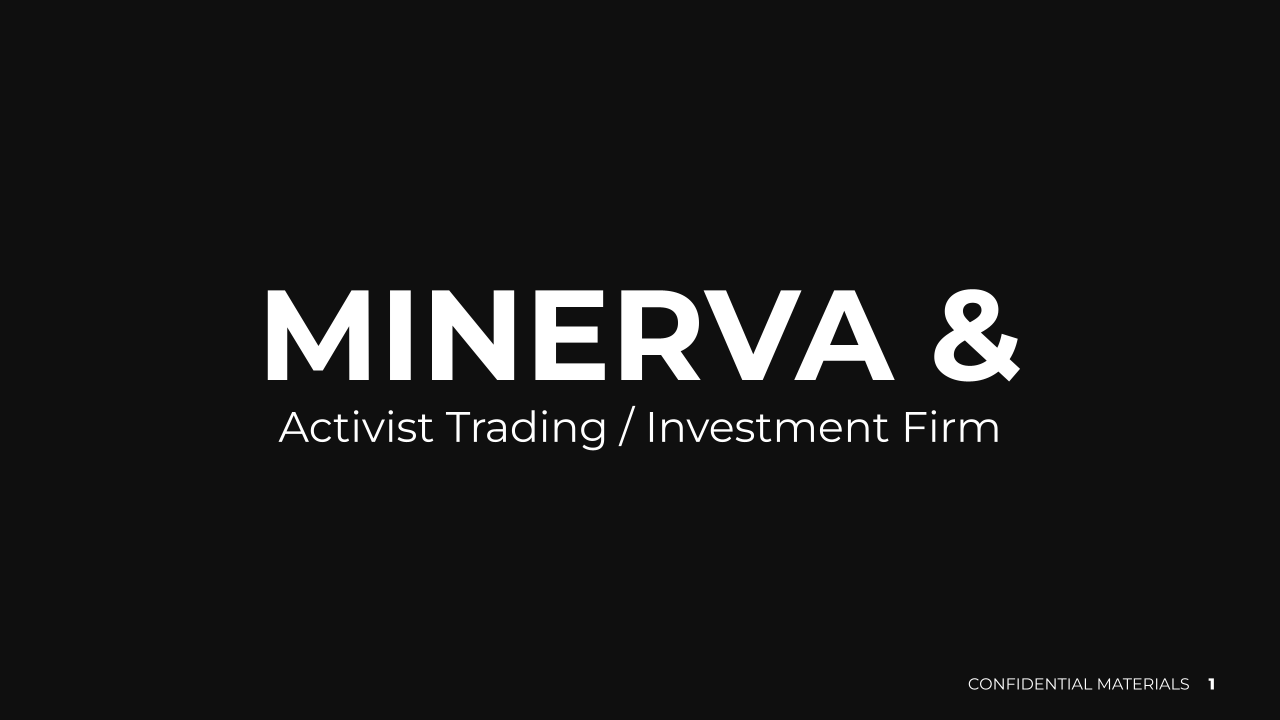
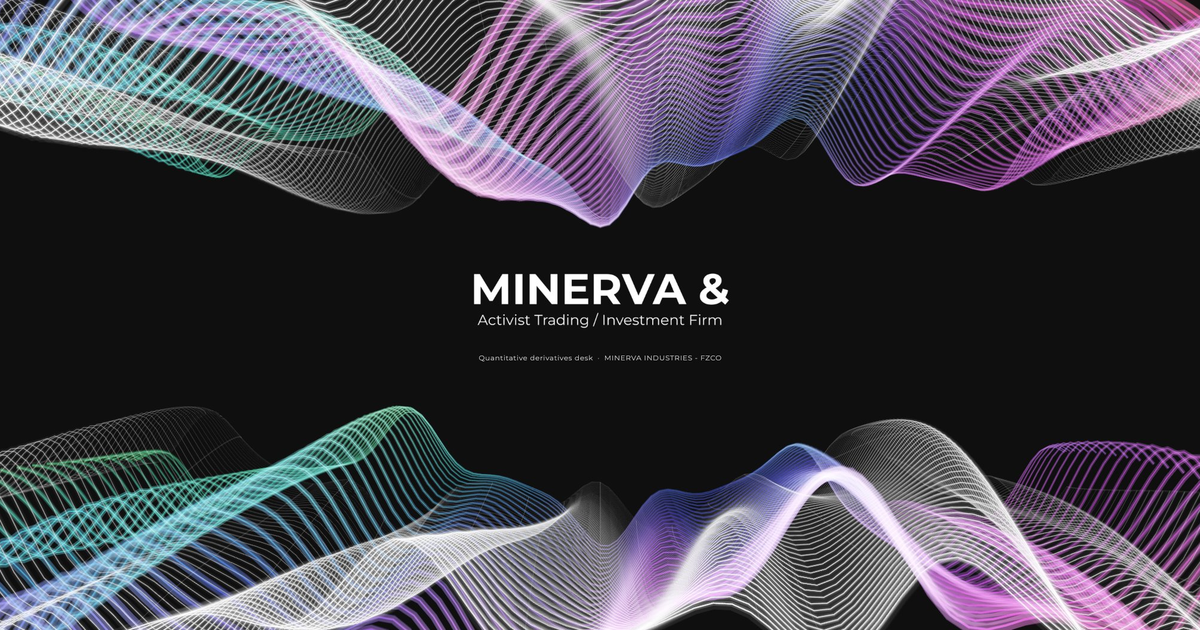
Update OG: new retina images (1200x630 + 2400x1260) and new description copy

diff --git a/index.html b/index.html
@@ -16,13 +16,15 @@
     <meta property="og:site_name" content="MINERVA &amp;">
     <meta property="og:url" content="https://minervaand.co">
     <meta property="og:type" content="website">
-    <meta property="og:description" content="Public markets and reality sentiment have become increasingly intertwined, largely driven (and at times distorted) by unprecedented levels of systematic derivatives flow and money supply factors. While this has led to greater informational efficiency in markets, it has simultaneously resulted in more pronounced psychological inefficiencies among market participants.">
-    <meta name="description" content="Public markets and reality sentiment have become increasingly intertwined, largely driven (and at times distorted) by unprecedented levels of systematic derivatives flow and money supply factors. While this has led to greater informational efficiency in markets, it has simultaneously resulted in more pronounced psychological inefficiencies among market participants.">
-    <meta property="og:image" content="https://minervaand.co/og.png">
+    <meta property="og:description" content="Systematic derivatives flows have created a new class of market inefficiency — not informational, but mechanical. Around major options expirations, forced hedging pressure generates predictable dislocations in high-growth equities that fundamental-driven participants systematically misread. MINERVA & sits at this intersection: buying directional options where volatility is cheapest, Greeks are favorable, and dealer flow is about to turn — capturing the convex recovery that follows every artificial squeeze.">
+    <meta name="description" content="Systematic derivatives flows have created a new class of market inefficiency — not informational, but mechanical. Around major options expirations, forced hedging pressure generates predictable dislocations in high-growth equities that fundamental-driven participants systematically misread. MINERVA & sits at this intersection: buying directional options where volatility is cheapest, Greeks are favorable, and dealer flow is about to turn — capturing the convex recovery that follows every artificial squeeze.">
+    <meta property="og:image" content="https://minervaand.co/og@2x.png">
+    <meta property="og:image:width" content="2400">
+    <meta property="og:image:height" content="1260">
     <meta name="twitter:card" content="summary_large_image">
     <meta name="twitter:title" content="MINERVA &amp;">
-    <meta name="twitter:description" content="Public markets and reality sentiment have become increasingly intertwined, largely driven (and at times distorted) by unprecedented levels of systematic derivatives flow and money supply factors. While this has led to greater informational efficiency in markets, it has simultaneously resulted in more pronounced psychological inefficiencies among market participants.">
-    <meta name="twitter:image" content="https://minervaand.co/og.png">
+    <meta name="twitter:description" content="Systematic derivatives flows have created a new class of market inefficiency — not informational, but mechanical. Around major options expirations, forced hedging pressure generates predictable dislocations in high-growth equities that fundamental-driven participants systematically misread. MINERVA & sits at this intersection: buying directional options where volatility is cheapest, Greeks are favorable, and dealer flow is about to turn — capturing the convex recovery that follows every artificial squeeze.">
+    <meta name="twitter:image" content="https://minervaand.co/og@2x.png">
 </head>
 <body>
     <div class="container">
